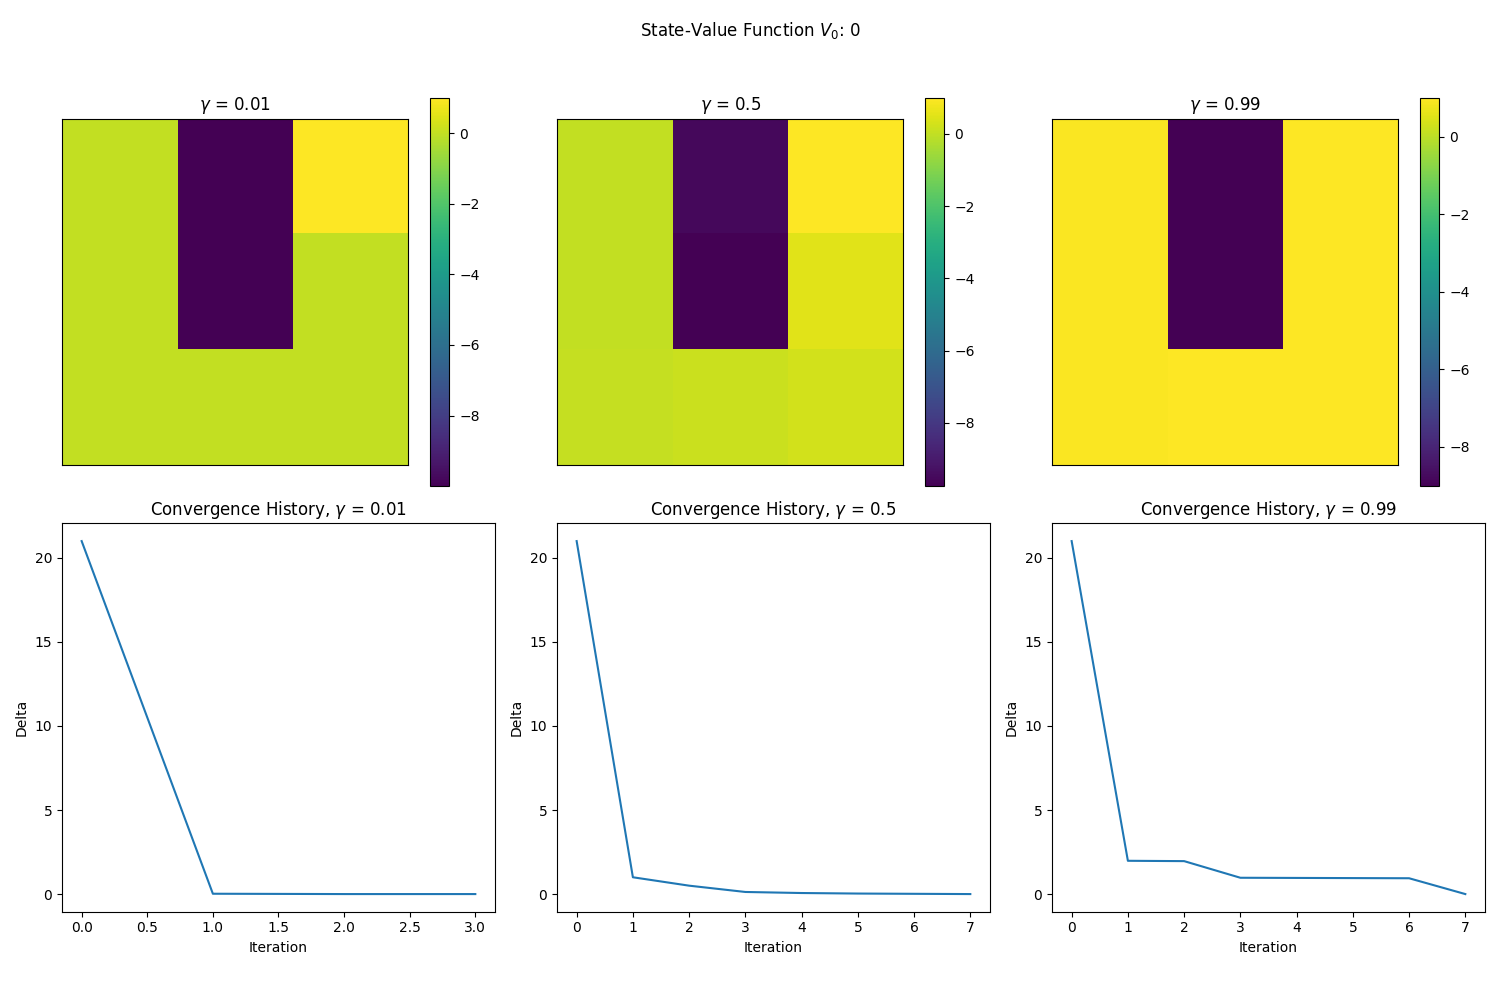
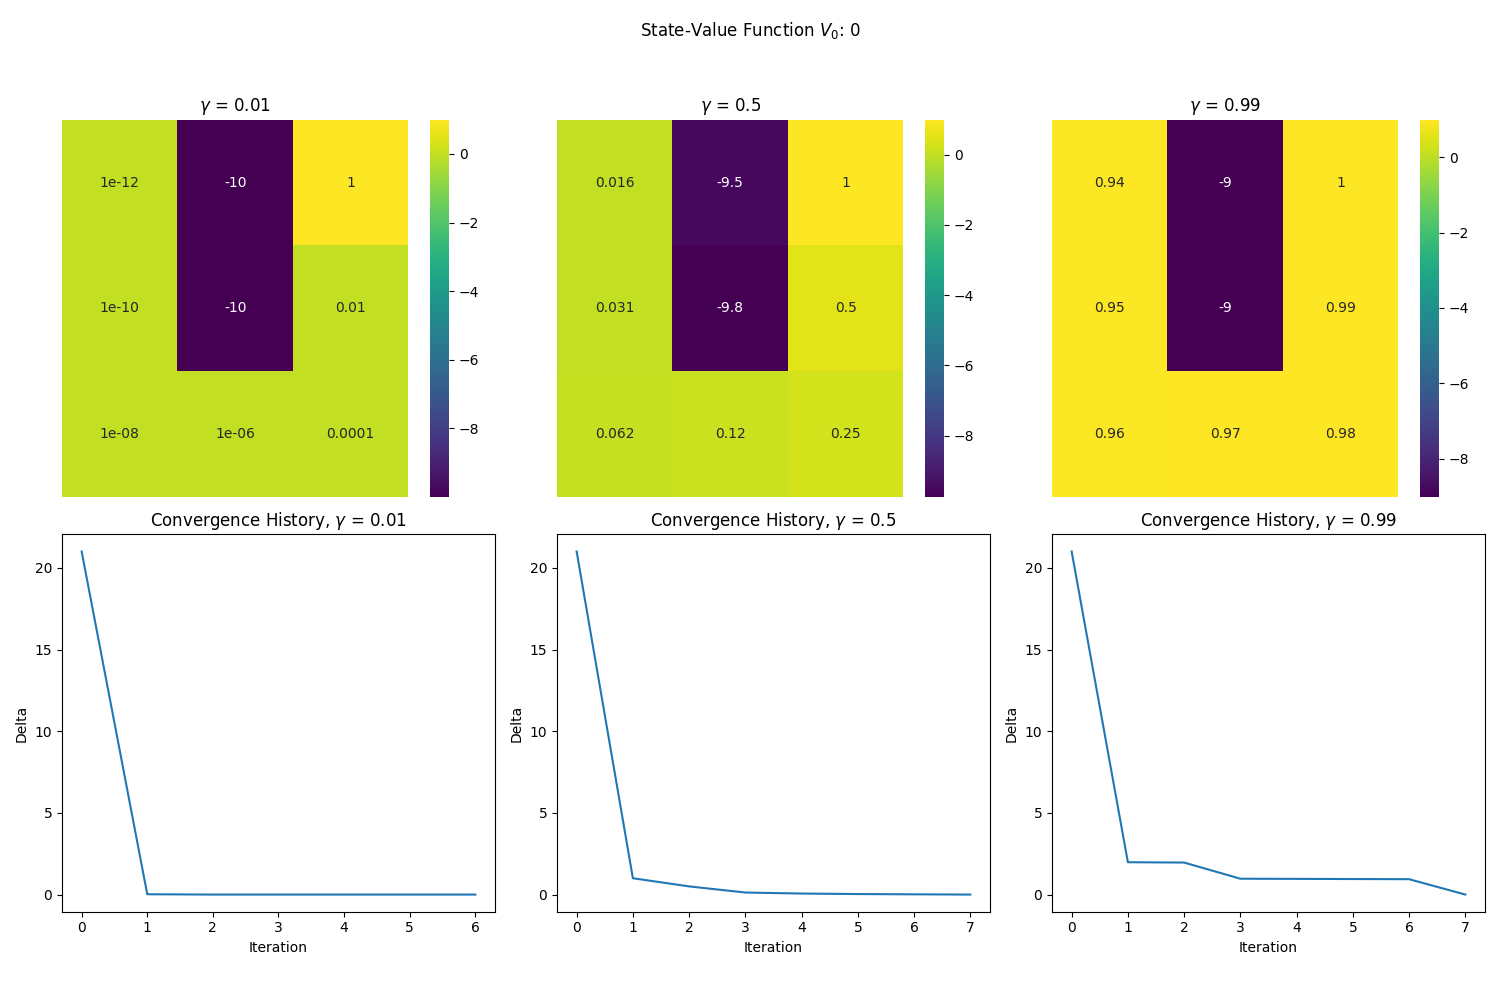
finally the correct algo and plots

diff --git a/gym_gridworlds/DP.py b/gym_gridworlds/DP.py
@@ -1,20 +1,28 @@
 import gymnasium
 import numpy as np
 import matplotlib.pyplot as plt
+import seaborn as sns
 
-def bellman_updates(V, Q, pi, R, P, T, gamma, theta):
+
+def policy_evaluation(V, Q, pi, R, P, T, gamma, theta):
     history = []
-
-    for _ in range(max_iterations):
-        v = V.copy()                                                            # copying initial policy
-        V = np.sum(pi * (R + gamma * np.multiply(np.dot(P, V), (1-T))), axis=1) # updating state value function
-        Q = R + gamma * np.multiply(np.dot(P, V), (1-T))                        # updating state-action value function
-
-        bellman_error = np.sum(np.abs(v-V))                                     # computing the bellman error    
-        history.append(bellman_error)           
-        if bellman_error < theta:
-            break  
+    bellman_error = np.inf
+    while bellman_error > theta:
+        V, Q, bellman_error = bellman_updates(V, Q, pi, R, P, T, gamma)
+        history.append(bellman_error)
     return V, Q, history
+
+
+def bellman_updates(V, Q, pi, R, P, T, gamma):
+    v = V.copy()                                    # copying initial policy
+    pi_V = np.multiply(np.dot(P, V), (1-T))
+    V = np.sum(pi * (R + gamma * pi_V),axis=1)      # updating state value function
+    Q = R + gamma * pi_V                            # updating state-action value function
+
+    bellman_error = np.sum(np.abs(V - v))
+
+    return V, Q, bellman_error
+
 
 def optimal_policy():
     '''
@@ -30,40 +38,41 @@ def optimal_policy():
      |----------------------|
     '''
     policy = np.zeros((n_states, n_actions))
-    policy[0,1] = 1 # down
-    policy[1,2] = 1 # right
-    policy[2,4] = 1 # stay
-    policy[3,1] = 1 # down
-    policy[4,2] = 1 # right
-    policy[5,3] = 1 # up
-    policy[6,2] = 1 # right
-    policy[7,2] = 1 # right
-    policy[8,3] = 1 # up
+    policy[0, 1] = 1  # down
+    policy[1, 2] = 1  # right
+    policy[2, 4] = 1  # stay
+    policy[3, 1] = 1  # down
+    policy[4, 2] = 1  # right
+    policy[5, 3] = 1  # up
+    policy[6, 2] = 1  # right
+    policy[7, 2] = 1  # right
+    policy[8, 3] = 1  # up
 
     return policy
 
-def plot_v_function(V, axs, gamma, i, grid_size):
+
+def plot_v_function(V, axs, gamma, grid_size):
     V_grid = V.reshape((grid_size, grid_size))
-    im = axs.imshow(V_grid, cmap='viridis', interpolation='none')
+    sns.heatmap(V_grid, annot=True, cmap='viridis', ax=axs, cbar=True)
     axs.set_title(f'$\gamma$ = {gamma}')
     axs.set_xticks([])
     axs.set_yticks([])
-    return im
 
-def plot_q_function(Q, axs, a, gamma, i, grid_size):
+
+def plot_q_function(Q, axs, a, gamma, grid_size):
     action_labels = ['Left', 'Down', 'Right', 'Up', 'Stay']
     Q_grid = Q[:, a].reshape((grid_size, grid_size))
-    im = axs.imshow(Q_grid, cmap='viridis', interpolation='none')
-    axs.set_title(f'Action {action_labels[a]}, $\gamma$ = {gamma}')
+    sns.heatmap(Q_grid, annot=True, cmap='viridis', ax=axs, cbar=True)
+    axs.set_title(f'action: {action_labels[a]}, $\gamma$ = {gamma}')
     axs.set_xticks([])
     axs.set_yticks([])
-    return im
+
 
 if __name__ == "__main__":
 
     gammas = [0.01, 0.5, 0.99]
     initial_values = [-10, 0, 10]
-    theta = 1e-5
+    theta = 1e-10
     max_iterations = 10000
 
     env = gymnasium.make("Gym-Gridworlds/Penalty-3x3-v0")
@@ -92,25 +101,24 @@ if __name__ == "__main__":
 
     for init_value in initial_values:
         store_q_values = []
-        
-        # Plot for V-function and convergence history
+
+        # plot for V-function and convergence history
         fig1, axs1 = plt.subplots(2, len(gammas), figsize=(15, 10))
         fig1.suptitle(f"State-Value Function $V_0$: {init_value}")
 
         for i, gamma in enumerate(gammas):
             V = np.full(n_states, init_value)
             Q = np.full((n_states, n_actions), init_value)
-            
-            V, Q, history = bellman_updates(V, Q, policy, R, P, T, gamma, theta)
+            V, Q, history = policy_evaluation(V, Q, policy, R, P, T, gamma, theta)
+  
             store_q_values.append(Q)
 
             grid_size = int(np.sqrt(len(V)))
-            
-            # Plot V function
-            im_v = plot_v_function(V, axs1[0][i], gamma, i, grid_size)
-            fig1.colorbar(im_v, ax=axs1[0][i])
 
-            # Plot convergence history
+            # plot V function
+            plot_v_function(V, axs1[0][i], gamma, grid_size)
+
+            # plot convergence history
             axs1[1][i].plot(history)
             axs1[1][i].set_title(f'Convergence History, $\gamma$ = {gamma}')
             axs1[1][i].set_xlabel('Iteration')
@@ -121,17 +129,16 @@ if __name__ == "__main__":
         plt.savefig(filename_v)
         plt.close(fig1)
 
-        # Plot for Q-function
+        # plot for Q-function
         fig2, axs2 = plt.subplots(n_actions, len(gammas), figsize=(15, 3 * n_actions))
         fig2.suptitle(f"Action-Value Function $Q_0$: {init_value}")
 
         for i, gamma in enumerate(gammas):
             Q = store_q_values[i]
 
-            # Plot Q-values for each action
+            # plot Q-values for each action
             for a in range(n_actions):
-                im_q = plot_q_function(Q, axs2[a][i], a, gamma, i, grid_size)
-                fig2.colorbar(im_q, ax=axs2[a][i])
+                plot_q_function(Q, axs2[a][i], a, gamma, grid_size)
 
         plt.tight_layout(rect=[0, 0.03, 1, 0.95])
         filename_q = f'plots_q0_{init_value}.png'
